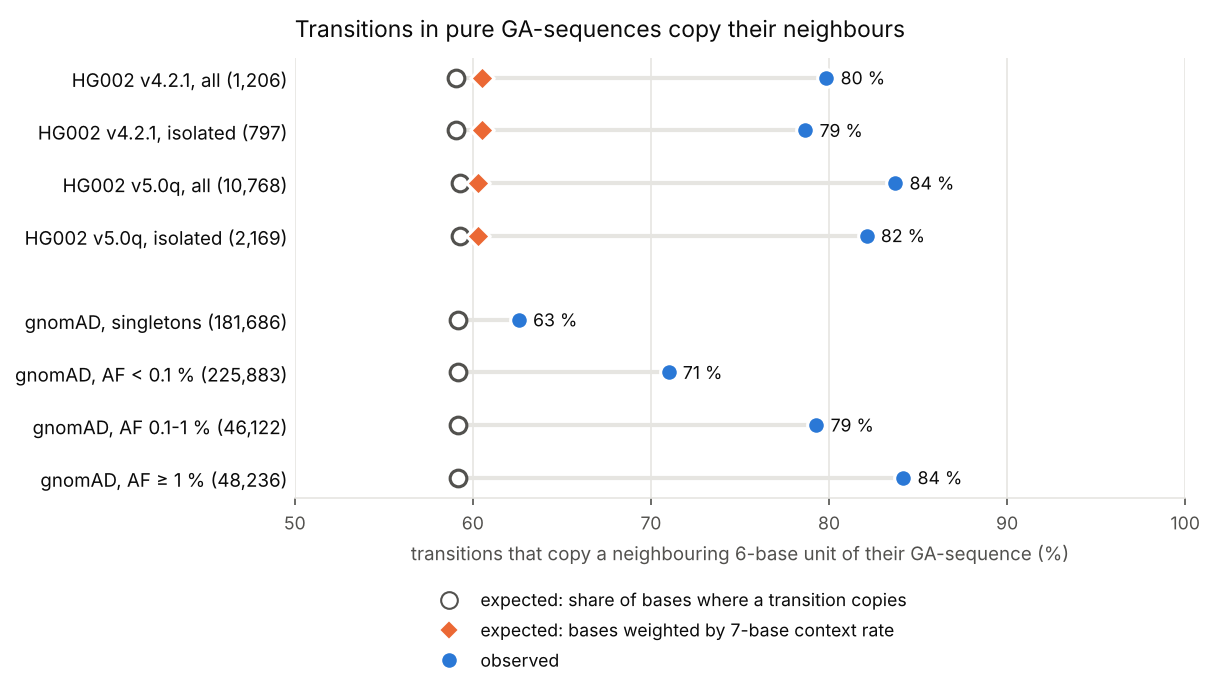
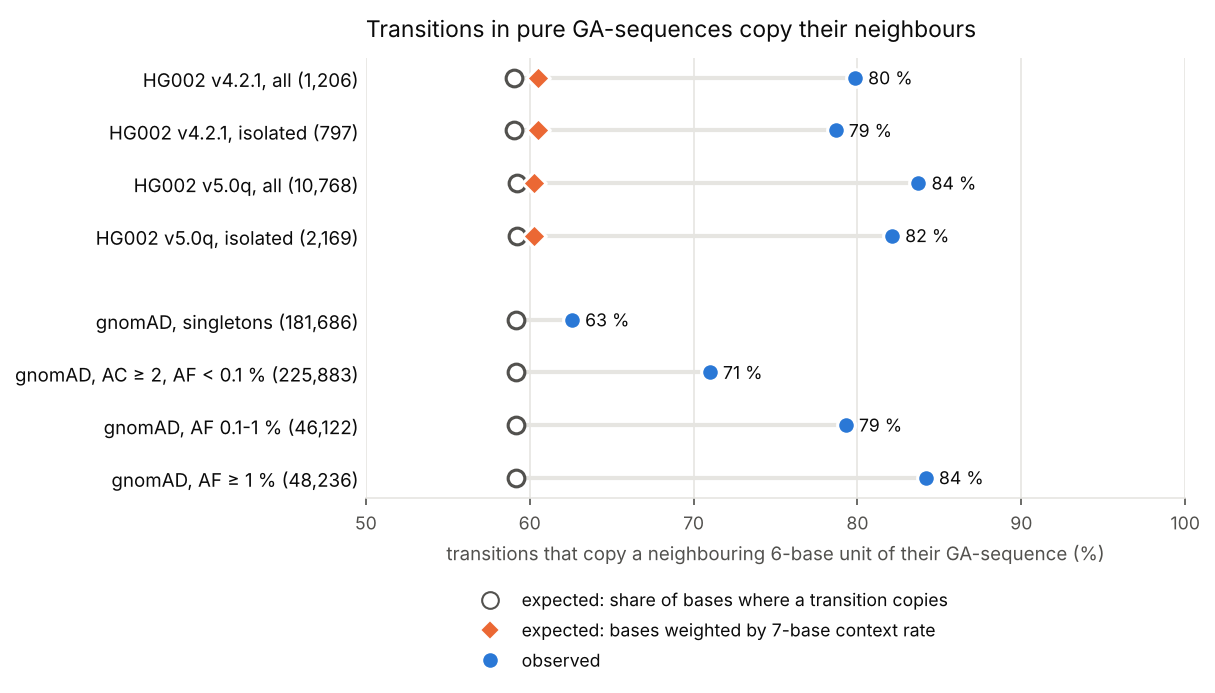
Experiment 04: the numbers checked against the results, and claims fitted to them
An independent read of every number against results/ found one ratio
rounded twice (1.04 for 1.03), one range (55 to 59 %), and claims that went
further than the numbers: the Alu origin is "many", not "most"; another
GA-sequence's words remove the copying excess in v4.2.1 but not all of it in
v5.0q; gnomAD's singletons are about 1.2 times their contexts' rate per
genome called; its AF < 0.1 % class has AC 2 or more. Alu density by
autosome is now measured (alu.py; Spearman's rho 0.80 with GA density),
and the well-called sites have no expected share of their own.

Claude-Session: https://claude.ai/code/session_012i186FzCHAj17DcrF3hpBZ

diff --git a/experiments/04-ga-sequences/alu.py b/experiments/04-ga-sequences/alu.py
@@ -5,7 +5,7 @@
 - else the repeat class it overlaps most (a simple repeat, low complexity, an L1, an SVA ...), or none.
 
 The share of Alu tails among GA-sequences that start with a poly(A) of each length (stack.py's poly_a, as in his
-image). Then, for Alu elements of each subfamily and of each divergence from their consensus (milliDiv, per thousand:
+image), and Alu elements a megabase of each autosome beside its GA-sequences a megabase (census.py's). Then, for Alu elements of each subfamily and of each divergence from their consensus (milliDiv, per thousand:
 an age), the share that end in a pure GA-sequence, and what such tails are made of (A, and G, and their longest run of
 A), and images: the tails sorted by the Alu's divergence, youngest at the top, and 150 of each of three ages.
 
@@ -17,6 +17,7 @@ python -I from a directory other than the download's.
 """
 
 import gzip
+import json
 import os
 import sys
 
@@ -164,8 +165,20 @@ def main(ref_dir: str, rmsk_path: str) -> None:
         sel = [x for x in rows if lo <= x["poly_a"] < hi]
         t = sum(x["origin"] == "Alu tail" for x in sel)
         by_poly_a[label] = {"ga_sequences": len(sel), "alu_tails": t, "share": round(t / max(len(sel), 1), 4)}
+    # Alu elements a megabase (of A/C/G/T bases) of each autosome, beside its pure GA/TC-sequences a megabase
+    from scipy.stats import spearmanr
+
+    with open(os.path.join(ga.RESULTS, "census.json")) as fh:
+        census = json.load(fh)
+    acgt = {c["chrom"]: c["acgt"] for c in census["chromosomes"]}
+    ga_per_mb = census["summary"]["per_mb"]
+    alu_per_mb = {ch: round(1e6 * int((rm[ch]["fam"] == alu_fam).sum()) / acgt[ch], 1) for ch in ga.AUTOSOMES}
+    rho = spearmanr([alu_per_mb[ch] for ch in ga.AUTOSOMES], [ga_per_mb[ch] for ch in ga.AUTOSOMES])
+    density = {"alu_per_mb": alu_per_mb, "ga_per_mb": {ch: ga_per_mb[ch] for ch in ga.AUTOSOMES},
+               "spearman_rho": round(float(rho.statistic), 3), "p": float(rho.pvalue)}
     out = {"ga_sequences": len(rows), "origins": dict(sorted(origins.items(), key=lambda kv: -kv[1])),
-           "alu_tails_by_poly_a": by_poly_a, "alu_tails_by_class": by_class, "alu_tails_by_divergence": by_div}
+           "alu_tails_by_poly_a": by_poly_a, "alu_tails_by_class": by_class, "alu_tails_by_divergence": by_div,
+           "density_by_autosome": density}
     ga.write_json("alu.json", out)
     with gzip.open(os.path.join(ga.RESULTS, "ga-sequences.origin.tsv.gz"), "wt") as fh:
         cols = ["chrom", "start", "end", "kind", "length", "a_fraction", "longest_a", "poly_a", "origin", "alu", "alu_class", "alu_div",
@@ -175,6 +188,7 @@ def main(ref_dir: str, rmsk_path: str) -> None:
             fh.write("\t".join(str(x.get(c, "")) for c in cols) + "\n")
     print(out["origins"])
     print("Alu tails by poly(A):", by_poly_a)
+    print("Alu elements and GA-sequences a megabase, by autosome:", density)
     for cl, v in by_class.items():
         print(cl, v)
     for v in by_div:

diff --git a/experiments/04-ga-sequences/figures.py b/experiments/04-ga-sequences/figures.py
@@ -37,7 +37,7 @@ def main() -> None:
     gn = load("gnomad.json")
     if gn:
         u = gn["unit_copy"]
-        for g, label in (("singleton", "singletons"), ("rare", "AF < 0.1 %"), ("uncommon", "AF 0.1-1 %"), ("common", "AF ≥ 1 %")):
+        for g, label in (("singleton", "singletons"), ("rare", "AC ≥ 2, AF < 0.1 %"), ("uncommon", "AF 0.1-1 %"), ("common", "AF ≥ 1 %")):
             x = u[g]
             rows.append((f"gnomAD, {label} ({x['ti']:,})", u["expected_share"], None, x["share"], x["ti"]))
     fig, ax = plt.subplots(figsize=(8.2, 0.42 * len(rows) + 1.5), dpi=150)

diff --git a/experiments/04-ga-sequences/README.md b/experiments/04-ga-sequences/README.md
@@ -24,30 +24,33 @@ said of where they come from and how they change?
    strand: as many, as Chargaff's second rule expects). Half are 73 bases or
    less; the longest is 1,303 ("up to 1300", he wrote); 0.3 % are runs of one
    base. chr1 has 1,766 (his count, on an older assembly: 1,667).
-2. **Most are the tails of Alu elements, or repeats that began as such.**
-   37 % start where an Alu element ends, on the same strand; a third are
-   simple repeats, a fifth low-complexity sequence. Of those that start with a
-   poly(A) of 15 or more, 71 % are Alu tails: not all, as he said, but most.
-   **And they get older as Alu elements age.** The older the Alu (the more it
-   has diverged from its consensus), the more often its tail is a pure
-   GA-sequence (from 4 per 1,000 Alu elements diverged less than 2 %, to 24
-   per 1,000 of those diverged 20 to 26 %), and the less of the tail is A: the
-   youngest tails are 91 % A, in runs of 49; the oldest, 55 to 60 %, in runs of
-   5. Poly(A) tails turn into GA-repeats with time, as
+2. **Many began as the poly(A) tails of Alu elements.** 37 % start where an
+   Alu element ends, on the same strand; a third are simple repeats, a fifth
+   low-complexity sequence. Of those that start with a poly(A) of 15 or more,
+   the ones whose upstream flanks he saw line up, 71 % are Alu tails. **And
+   they get older as Alu elements age.** The older the Alu (the more it has
+   diverged from its consensus), the more often its tail is a pure GA-sequence
+   (from 4 per 1,000 Alu elements diverged less than 2 %, to 24 per 1,000 of
+   those diverged 20 to 26 %), and the less of the tail is A: the youngest
+   tails are 91 % A, in runs of 49; the oldest, 55 to 59 %, in runs of 5.
+   Poly(A) tails turn into GA-repeats with time, as
    [figures/alu_tails_three_ages.png](figures/alu_tails_three_ages.png) shows.
 3. **They don't have many times fewer point mutations.** He counted the
    substitutions that would break a GA-sequence: the transversions, A or G to
-   C or T. New mutations, the singletons among gnomAD's 76,215 genomes, occur
-   in GA-sequences at the rate their trinucleotide contexts predict (1.00
-   times; transversions 0.96 times), and HG002's isolated substitutions at 0.9
-   to 1.1 times (in GIAB's v4.2.1 and v5.0q benchmarks). With no CpG in them,
-   the most mutable pairs, a GA-sequence has fewer substitutions per base than
-   the genome on average, and that is all. Commoner variants lean towards
-   transitions, which keep a GA-sequence pure: HG002's isolated transitions run
-   at 1.1 to 1.6 times what their contexts predict, its transversions at about
-   half (0.44 to 0.58 times). What GA-sequences have is **19 to 24 times as
-   many insertions and deletions** as the rest of HG002's genome (in gnomAD,
-   28 times as many indel alleles a base), as microsatellites do.
+   C or T. The newest variants, the singletons among gnomAD's 76,215 genomes, occur
+   in GA-sequences at about the rate their trinucleotide contexts predict
+   (1.00 times, transversions 0.96 times; about 1.2 times per genome called,
+   as gnomAD calls 80 % of its genomes there against 99 % elsewhere), and
+   HG002's isolated substitutions at 0.9 to 1.1 times (in GIAB's v4.2.1 and
+   v5.0q benchmarks). With no CpG in them, the most mutable pairs, their
+   contexts predict fewer substitutions per base than the genome's average,
+   and they have about what their contexts predict. Commoner variants lean
+   towards transitions, which keep a GA-sequence pure: HG002's isolated
+   transitions run at 1.1 to 1.6 times what their contexts predict, its
+   transversions at about half (0.44 to 0.58 times). What GA-sequences have is
+   **19 to 24 times as many insertions and deletions** as HG002's genome at
+   large (in gnomAD, 28 times as many indel alleles a base), as
+   microsatellites do.
 4. **Their substitutions copy their neighbours, the more so the commoner they
    are.** Inside them, substitutions are transitions (A↔G) far more than
    elsewhere: 80 % (v4.2.1) and 88 % (v5.0q) of HG002's, against 68 % and 67 %
@@ -56,28 +59,29 @@ said of where they come from and how they change?
    more often than chance: 80 % of HG002's (v4.2.1), where 59 % of the bases
    would (p = 4 × 10⁻⁵³); 79 % of isolated ones. Weighting each base by the
    rate of transitions in its 7-base context changes the expectation to 60 %;
-   taking the 6-base words of another GA-sequence of the same length instead
-   removes the excess (50 %, against 49 %): it is the sequence's own units
-   that are copied. v5.0q, which holds twice as many GA-sequence bases, gives
-   82 % of 2,169 isolated transitions. In gnomAD, the commoner a transition,
-   the more often it copies a unit: 63 % of singletons, 71 % of variants rarer
-   than 0.1 %, 79 % of those to 1 % and 84 % of commoner ones, where 59 % of
-   the bases would (p < 10⁻¹⁹⁷ each); at the sites called in 90 % of its
-   genomes or more, 64 % to 77 %.
+   taking the 6-base words of another GA-sequence of nearly the same length
+   instead removes the excess (50 %, against 49 %). v5.0q, which holds twice
+   as many GA-sequence bases, gives 82 % of 2,169 isolated transitions, and
+   61 % with another GA-sequence's words, against 51 %: it is mostly the
+   sequence's own units that are copied. In gnomAD, the commoner a transition,
+   the more often it copies a unit: 63 % of singletons, 71 % of other variants
+   rarer than 0.1 %, 79 % of those to 1 % and 84 % of commoner ones, where
+   59 % of the bases would (p < 10⁻¹⁹⁷ each); at the sites called in 90 % of
+   its genomes or more, 64 % to 77 %.
 
 **What it means.** Pure GA-sequences look like microsatellites that start as
 the poly(A) tails of Alu elements and change by copying their own units, the
-way repeats change by slippage and gene conversion, rather than like
-protected signposts. New point mutations reach them at the usual rate; the
-substitutions that become common are mostly transitions that copy a
-neighbouring unit, whether because such a change recurs, templated by its
-neighbour, or because it is favoured. Albrecht-Buehler himself, the same
-year, measured point mutations as the differences between consecutive
-periods of repeats, and proposed "auto-mutagenic mechanisms" involving "the
+way repeats change by slippage and gene conversion, rather than like protected
+signposts. New point mutations seem to reach them at about the usual rate; the
+substitutions that become common are mostly transitions, and most of those
+copy a neighbouring unit, whether because such a change recurs, templated by
+its neighbour, or because it is favoured. Albrecht-Buehler himself, the same
+year, measured point mutations as the differences between consecutive periods
+of repeats, and proposed "auto-mutagenic mechanisms" involving "the
 inter-conversions of nucleotides"
-([BioEssays 2009](https://doi.org/10.1002/bies.080081)). In his
-GA-sequences, people's variants show such changes, and that each takes its
-pattern from a neighbouring unit.
+([BioEssays 2009](https://doi.org/10.1002/bies.080081)). In his GA-sequences,
+people's variants show such changes, and that their transitions take their
+pattern from a neighbouring unit far more often than chance would have it.
 
 ## How it was done
 
@@ -85,7 +89,8 @@ The genomes were read from gpxil files: GRCh38 from the
 [Gpxil browser](https://comparativechrono.github.io/Gpxil-browser/)'s
 per-chromosome files, and HG002's two GIAB benchmarks (v4.2.1, and the
 assembly-based v5.0q), encoded with gpxiltools 0.7 one autosome at a time,
-without the reference plane (29 MB for v4.2.1's 22 files). Each base's
+without the reference plane (30 MB for v4.2.1's 22 files, 38 MB for
+v5.0q's). Each base's
 planes are arrays aligned to the reference, so a question about every pure
 GA-sequence is a few lines of NumPy over its offsets. The repeats are
 UCSC's RepeatMasker table for hg38; gnomAD's variants were read from its
@@ -123,7 +128,8 @@ TC-sequence is read on its purine strand, reverse-complemented.
 
 4.2 Mb in all: among the autosomes, from 12 a megabase on chr13 to 31 on
 chr19 (17 on chrX, 34 on chrY's sequenced bases). The densest chromosomes are
-the richest in Alu elements.
+the richest in Alu elements: Spearman's ρ = 0.80 over the autosomes (chr19,
+992 Alu elements a megabase; chr13, 296).
 
 ### Where they come from
 
@@ -160,7 +166,8 @@ their strand (44 to 55 %). RepeatMasker says more of them are Alu tails:
 
 By divergence from the consensus, in steps of 2 %: 4.2, 5.5, 5.6, 6.0, 9.2,
 12.7, 16.1, 17.6, 19.2, 20.8, 23.6, 24.4 and 24.6 tails per 1,000 Alu elements
-from 0 to 26 %, while the tails' A falls from 91 % to 55 %:
+from 0 to 26 %, while the tails' A falls from 91 % to 55 % (the steps with
+1,000 Alu elements or more; the 1,247 older ones have 34 tails):
 
 ![Alu tails by the Alu's age](figures/alu_clock.png)
 
@@ -203,20 +210,21 @@ drawn held an N). Expected counts come from the windows' rate of each
 substitution in each trinucleotide context, in the same allele-frequency
 class.
 
-| | singletons | AF < 0.1 % | AF 0.1 to 1 % | AF ≥ 1 % |
+| | singletons | AC ≥ 2, AF < 0.1 % | AF 0.1 to 1 % | AF ≥ 1 % |
 |---|---|---|---|---|
 | substitutions inside | 340,811 | 341,711 | 59,580 | 59,706 |
 | … against their contexts | 1.00 × | 1.43 × | 4.31 × | 4.83 × |
-| … transitions, transversions | 1.04 ×, 0.96 × | 1.74 ×, 1.03 × | 6.00 ×, 2.08 × | 6.78 ×, 2.06 × |
+| … transitions, transversions | 1.03 ×, 0.96 × | 1.74 ×, 1.03 × | 6.00 ×, 2.08 × | 6.78 ×, 2.06 × |
 | transitions inside (windows) | 56 % (59 %) | 69 % (66 %) | 79 % (67 %) | 82 % (66 %) |
 | indel alleles a base, inside against the windows | 22 × | 30 × | 54 × | 35 × |
 | genomes called at the substitutions, inside (windows) | 80 % (99 %) | 77 % (99 %) | 54 % (98 %) | 48 % (97 %) |
 
 All together: 801,808 substitutions, 1.32 times what their contexts
 predict, and 2,716,730 indel alleles, 702 a kilobase against 25 in the
-windows. New mutations, the singletons, come at the rate their contexts
-predict, transitions and transversions alike (a little more per genome, as
-fewer genomes are called inside). The commoner classes hold four to five
+windows. The newest variants, the singletons, come at the rate their contexts
+predict, transitions and transversions alike; about 1.2 times that per
+genome called, if singletons go with the number of genomes called (80 %
+inside, 99 % in the windows). The commoner classes hold four to five
 times as many substitutions as their contexts predict, most of them
 transitions, at sites that gnomAD calls in only half its genomes: as in
 v5.0q, haplotypes whose units differ, and calls that are hard to make from
@@ -261,15 +269,17 @@ surest:
 | gnomAD v4.1 | transitions | copying a 6-base unit | at sites called in 90 % of genomes: transitions | copying |
 |---|---|---|---|---|
 | singletons | 181,686 | 63 % | 107,369 | 64 % |
-| AF < 0.1 % | 225,883 | 71 % | 105,756 | 69 % |
+| AC ≥ 2, AF < 0.1 % | 225,883 | 71 % | 105,756 | 69 % |
 | AF 0.1 to 1 % | 46,122 | 79 % | 8,244 | 75 % |
 | AF ≥ 1 % | 48,236 | 84 % | 6,286 | 77 % |
-| expected from the bases | | 59 % | | 59 % |
+| expected from the bases | | 59 % | | |
 
-At the best-called sites the rise is gentler, so part of it may come from
-calls that are hard to make; but every class copies more than chance, and
-HG002's isolated transitions in v5.0q, at 82 %, sit with gnomAD's commoner
-ones.
+The expectation is over all the GA-sequences' bases; it can't be had for
+the well-called sites alone, as gnomAD gives the number of genomes called
+only where there is a variant. At the best-called sites the rise is gentler,
+so part of it may come from calls that are hard to make; but every class
+copies more than chance would, and HG002's isolated transitions in v5.0q, at
+82 %, sit with gnomAD's commoner ones.
 
 ## Caveats
 
@@ -289,7 +299,8 @@ ones.
   find repeats hard. De novo mutations, in deep pedigrees, would say how often
   they arise.
 - "Alu tail" means an Alu's 3' end within 30 bases of the GA-sequence's
-  start; a degenerate tail further away is counted as a simple repeat.
+  start; a degenerate tail further away is counted under the repeat class
+  that covers at least half of the GA-sequence, or as none.
 
 ## Reproducing
 

diff --git a/README.md b/README.md
@@ -18,7 +18,7 @@ done with it.
 | [01-browser-python](experiments/01-browser-python/) | Can gpxiltools run in the browser on files of hundreds of megabytes? | Yes. Files mounted lazily are read a strip at a time: the 809 MB whole-genome file opens and gives up a megabase of sequence after reading 0.5 MB, in 72 MB of memory. |
 | [02-gpxil2pxil](experiments/02-gpxil2pxil/) | Can gene, transcript and protein pictures be made from a gpxil genome, for each of a person's haplotypes? | Yes: [gpxil2pxil](https://github.com/comparativechrono/gpxil2pxil). HG002 turns out homozygous for TP53's Arg72, one pixel different from the reference. |
 | [03-compare](experiments/03-compare/) | Can genomes be compared base by base, two call sets or a child with both parents, and still see an indel written at another place in a repeat? | Yes: `gpxil compare` in gpxiltools 0.5. All 806 indels moved along repeats are found, and no controls; HG002's v4.2.1 and v5.0q agree on > 99.99 % of variant bases, and HG002 with HG003 and HG004 shows 22 candidate new mutations on chromosome 17 inside all three benchmarks' regions. One artefact of spec 0.1, overlapping unphased calls joined on one haplotype, led to version 0.2, after which every difference agrees with a check from the VCF records. |
-| [04-ga-sequences](experiments/04-ga-sequences/) | Albrecht-Buehler's pure GA-sequences, with a person's genome and 76,215 others: where do they come from, and do they really have fewer point mutations? | Many began as the poly(A) tails of Alu elements (37 %, and 71 % of those that start with a long poly(A)): the older the Alu, the more often its tail is a GA-sequence and the less of it is A. New point mutations reach them at the usual rate (gnomAD's singletons, 1.00 times what their contexts predict), but they have 19-28 times the indels, and their substitutions are mostly transitions that copy a neighbouring unit of their own sequence, the more so the commoner they are (80 % of HG002's; 63 % of gnomAD's singletons to 84 % of its common variants; chance gives 59 %). |
+| [04-ga-sequences](experiments/04-ga-sequences/) | Albrecht-Buehler's pure GA-sequences, with a person's genome and 76,215 others: where do they come from, and do they really have fewer point mutations? | Many began as the poly(A) tails of Alu elements (37 %, and 71 % of those that start with a long poly(A)): the older the Alu, the more often its tail is a GA-sequence and the less of it is A. New point mutations reach them at about the usual rate (gnomAD's singletons: 1.0 to 1.2 times what their contexts predict), but they have 19-28 times the indels, and their transitions copy a neighbouring unit of their own sequence, the more so the commoner they are (80 % of HG002's transitions; 63 % of gnomAD's singleton transitions to 84 % of its common ones; chance gives 59 %). |
 
 ## Packages
 
